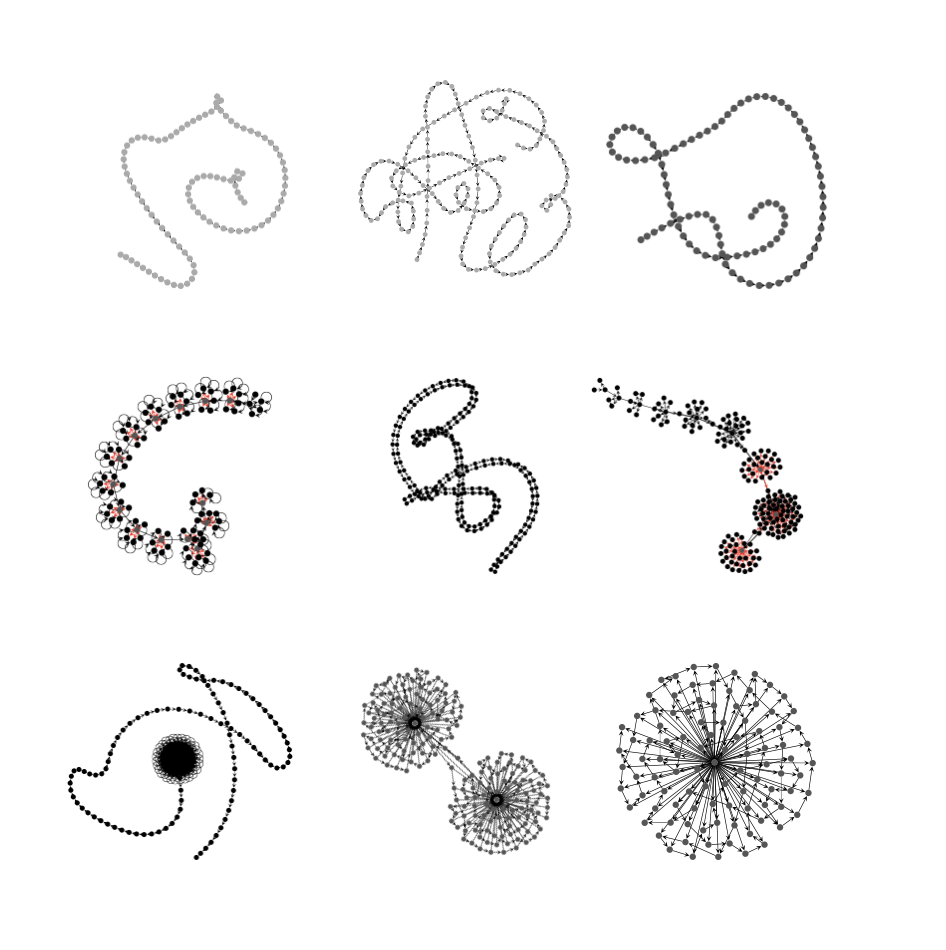
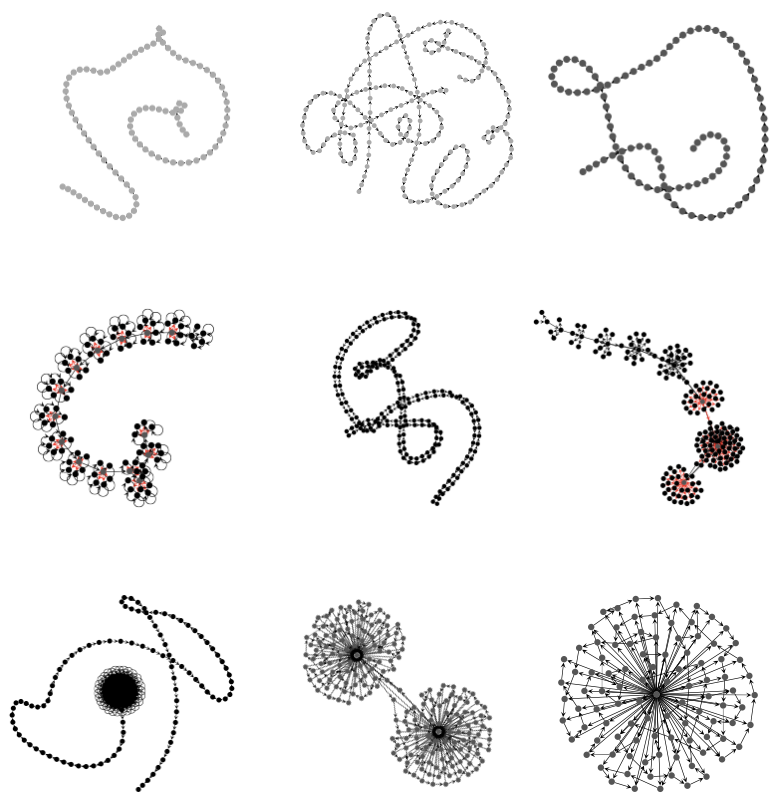
deeprvat+dgca projects

diff --git a/_projects/3_project.md b/_projects/3_project.md
@@ -8,74 +8,121 @@ redirect:
 category: work
 ---
 
-Every project has a beautiful feature showcase page.
-It's easy to include images in a flexible 3-column grid format.
-Make your photos 1/3, 2/3, or full width.
+### DeepRVAT
 
-To give your project a background in the portfolio page, just add the img tag to the front matter like so:
-
-    ---
-    layout: page
-    title: project
-    description: a project with a background image
-    img: /assets/img/12.jpg
-    ---
+Integration of variant annotations using deep set networks boosts rare variant association testing. 
 
 <div class="row">
     <div class="col-sm mt-3 mt-md-0">
-        {% include figure.liquid loading="eager" path="assets/img/1.jpg" title="example image" class="img-fluid rounded z-depth-1" %}
-    </div>
-    <div class="col-sm mt-3 mt-md-0">
-        {% include figure.liquid loading="eager" path="assets/img/3.jpg" title="example image" class="img-fluid rounded z-depth-1" %}
-    </div>
-    <div class="col-sm mt-3 mt-md-0">
-        {% include figure.liquid loading="eager" path="assets/img/5.jpg" title="example image" class="img-fluid rounded z-depth-1" %}
+        <div style="max-width: 600px; margin: 0 auto;">
+            {% include figure.liquid loading="eager" path="assets/img/project_content/deeprvat_motivation.png" title="echo state network" class="img-fluid rounded z-depth-1" %}
+        </div>
     </div>
 </div>
-<div class="caption">
-    Caption photos easily. On the left, a road goes through a tunnel. Middle, leaves artistically fall in a hipster photoshoot. Right, in another hipster photoshoot, a lumberjack grasps a handful of pine needles.
+
+The pre-trained DeepRVAT model can be used to compute gene impairment scores for new genes and samples.
+
+My work consisted on revisiting DeepRVAT by focusing on 4 dimensions:
+
+### Robustness and Performance
+
+Max Permutation Invariant function (PIF) can’t model interactions or compound effects. One variant might suppress or mask the effect of another. Two moderate-impact variants together might have a stronger effect than either alone.
+
+<div class="row g-0">
+    <div class="col-sm mt-3 mt-md-0">
+        <div style="max-width: 200px; margin: 0 auto;">
+            {% include figure.liquid loading="eager" path="assets/img/project_content/pif.png" title="PIF" class="img-fluid rounded z-depth-1" %}
+        </div>
+    </div>
+    <div class="col-sm mt-3 mt-md-0">
+        <div style="max-width: 400px; margin: 0 auto;">
+            {% include figure.liquid loading="eager" path="assets/img/project_content/sumvsmax.png" title="sum vs max" class="img-fluid rounded z-depth-1" %}
+        </div>
+    </div>
 </div>
+
+Removing final sigmoid layer solves problems with burden distribution and yields scores that align with `biological expectations`.
+
 <div class="row">
     <div class="col-sm mt-3 mt-md-0">
-        {% include figure.liquid loading="eager" path="assets/img/5.jpg" title="example image" class="img-fluid rounded z-depth-1" %}
+        <div style="max-width: 700px; margin: 0 auto;">
+            {% include figure.liquid loading="eager" path="assets/img/project_content/additivity.png" title="additivity" class="img-fluid rounded z-depth-1" %}
+        </div>
     </div>
 </div>
-<div class="caption">
-    This image can also have a caption. It's like magic.
-</div>
 
-You can also put regular text between your rows of images.
-Say you wanted to write a little bit about your project before you posted the rest of the images.
-You describe how you toiled, sweated, _bled_ for your project, and then... you reveal its glory in the next row of images.
+A default value does not indicate absence of information; NAs should be handled separately. This was achieved by the introduction of a dummy variable.
 
-<div class="row justify-content-sm-center">
-    <div class="col-sm-8 mt-3 mt-md-0">
-        {% include figure.liquid path="assets/img/6.jpg" title="example image" class="img-fluid rounded z-depth-1" %}
-    </div>
-    <div class="col-sm-4 mt-3 mt-md-0">
-        {% include figure.liquid path="assets/img/11.jpg" title="example image" class="img-fluid rounded z-depth-1" %}
+<div class="row">
+    <div class="col-sm mt-3 mt-md-0">
+        <div style="max-width: 400px; margin: 0 auto;">
+            {% include figure.liquid loading="eager" path="assets/img/project_content/na_handling.png" title="na_handling" class="img-fluid rounded z-depth-1" %}
+        </div>
     </div>
 </div>
-<div class="caption">
-    You can also have artistically styled 2/3 + 1/3 images, like these.
+
+Insertions/deletions can disrupt splicing and regulatory regions (framshift and in-frame risks), but scores are often unavailable. In non-coding regions this is harder to predict, but the impact is still there.
+
+<div class="row">
+    <div class="col-sm mt-3 mt-md-0">
+        <div style="max-width: 700px; margin: 0 auto;">
+            {% include figure.liquid loading="eager" path="assets/img/project_content/indels.png" title="indels" class="img-fluid rounded z-depth-1" %}
+        </div>
+    </div>
 </div>
 
-The code is simple.
-Just wrap your images with `<div class="col-sm">` and place them inside `<div class="row">` (read more about the <a href="https://getbootstrap.com/docs/4.4/layout/grid/">Bootstrap Grid</a> system).
-To make images responsive, add `img-fluid` class to each; for rounded corners and shadows use `rounded` and `z-depth-1` classes.
-Here's the code for the last row of images above:
+Some indels may be imputed by approximating them as single-nucleotide variants at the affected loci.
 
-{% raw %}
-
-```html
-<div class="row justify-content-sm-center">
-  <div class="col-sm-8 mt-3 mt-md-0">
-    {% include figure.liquid path="assets/img/6.jpg" title="example image" class="img-fluid rounded z-depth-1" %}
-  </div>
-  <div class="col-sm-4 mt-3 mt-md-0">
-    {% include figure.liquid path="assets/img/11.jpg" title="example image" class="img-fluid rounded z-depth-1" %}
-  </div>
+<div class="row">
+    <div class="col-sm mt-3 mt-md-0">
+        <div style="max-width: 400px; margin: 0 auto;">
+            {% include figure.liquid loading="eager" path="assets/img/project_content/indel_imputation.png" title="indel_imputation" class="img-fluid rounded z-depth-1" %}
+        </div>
+    </div>
 </div>
-```
 
-{% endraw %}
+### Interpretability
+
+Genes with LoF variants can be used as markers for burden rescaling.
+
+We compute rescaling factors:
+
+`X0`: median of gene burdens of individuals with no variants
+
+`X1`: median of gene burdens of individuals with exactly one loftee_hc=1 variant
+
+Rescaling factors (for each model):
+
+<div class="row">
+    <div class="col-sm mt-3 mt-md-0">
+        <div style="max-width: 100px; margin: 0 auto;">
+            {% include figure.liquid loading="eager" path="assets/img/project_content/rescaling_factors.png" title="factors" class="img-fluid rounded z-depth-1" %}
+        </div>
+    </div>
+</div>
+
+Rescaling burdens increases `interpretability` and improves `downstream usage`. From a technical point of view, unscaled burdens are hard to compare with other tools, as there is no point of reference.
+
+### Usability
+
+In most samples, DeepRVAT sees a single variant and not a set. This means that the DeepRVAT variant score is actually the gene impairment score.
+
+<div class="row">
+    <div class="col-sm mt-3 mt-md-0">
+        <div style="max-width: 600px; margin: 0 auto;">
+            {% include figure.liquid loading="eager" path="assets/img/project_content/deeprvat_vep.png" title="VEP approach" class="img-fluid rounded z-depth-1" %}
+        </div>
+    </div>
+</div>
+
+For those few cases where there are actually >1 variant, adding the variant level scores instead of running them through the end-to-end model showed quite good performance
+
+<div class="row">
+    <div class="col-sm mt-3 mt-md-0">
+        <div style="max-width: 400px; margin: 0 auto;">
+            {% include figure.liquid loading="eager" path="assets/img/project_content/vep_performance.png" title="VEP performance" class="img-fluid rounded z-depth-1" %}
+        </div>
+    </div>
+</div>
+
+The advantage that we can pre-compute these variant level scores, which highlights the possibility for an ensemble method for variant prediction complementary to CADD.

diff --git a/_projects/1_project.md b/_projects/1_project.md
@@ -5,77 +5,82 @@ description: Developmental Graph Cellular Automata can grow reservoir computers.
 img: assets/img/project_preview/dgca.png
 importance: 1
 category: work
-related_publications: true
+related_publications: false
 ---
 
-Every project has a beautiful feature showcase page.
-It's easy to include images in a flexible 3-column grid format.
-Make your photos 1/3, 2/3, or full width.
+### What distinguishes living matter from non-living matter?
 
-To give your project a background in the portfolio page, just add the img tag to the front matter like so:
-
-    ---
-    layout: page
-    title: project
-    description: a project with a background image
-    img: /assets/img/12.jpg
-    ---
+Until the late 19th century, scientists believed that life possessed a special vital force. A property not just of living beings, but of their chemical constituents themselves.
 
 <div class="row">
     <div class="col-sm mt-3 mt-md-0">
-        {% include figure.liquid loading="eager" path="assets/img/1.jpg" title="example image" class="img-fluid rounded z-depth-1" %}
-    </div>
-    <div class="col-sm mt-3 mt-md-0">
-        {% include figure.liquid loading="eager" path="assets/img/3.jpg" title="example image" class="img-fluid rounded z-depth-1" %}
-    </div>
-    <div class="col-sm mt-3 mt-md-0">
-        {% include figure.liquid loading="eager" path="assets/img/5.jpg" title="example image" class="img-fluid rounded z-depth-1" %}
+        <div style="max-width: 400px; margin: 0 auto;">
+            {% include figure.liquid loading="eager" path="assets/img/project_content/vital_force.png" title="vital force" class="img-fluid rounded z-depth-1" %}
+        </div>
     </div>
 </div>
-<div class="caption">
-    Caption photos easily. On the left, a road goes through a tunnel. Middle, leaves artistically fall in a hipster photoshoot. Right, in another hipster photoshoot, a lumberjack grasps a handful of pine needles.
-</div>
+
+By the mid-20th century, the discovery of DNA and RNA structures and the successful synthesis of polynucleotides revealed that life’s chemistry follows the same physical laws as everything else. The atoms that make up our bodies are the same as those found all around the universe.
+
 <div class="row">
     <div class="col-sm mt-3 mt-md-0">
-        {% include figure.liquid loading="eager" path="assets/img/5.jpg" title="example image" class="img-fluid rounded z-depth-1" %}
+        <div style="max-width: 400px; margin: 0 auto;">
+            {% include figure.liquid loading="eager" path="assets/img/project_content/carbon_space.png" title="carbon in space" class="img-fluid rounded z-depth-1" %}
+        </div>
     </div>
 </div>
-<div class="caption">
-    This image can also have a caption. It's like magic.
-</div>
 
-You can also put regular text between your rows of images, even citations {% cite einstein1950meaning %}.
-Say you wanted to write a bit about your project before you posted the rest of the images.
-You describe how you toiled, sweated, _bled_ for your project, and then... you reveal its glory in the next row of images.
+Yet, there remains something unique about living systems beyond chemistry alone.
 
-<div class="row justify-content-sm-center">
-    <div class="col-sm-8 mt-3 mt-md-0">
-        {% include figure.liquid path="assets/img/6.jpg" title="example image" class="img-fluid rounded z-depth-1" %}
+In recent years, researchers have turned to `function` as the defining feature of life. 
+
+### Morphogenesis
+
+Morphogenesis orchestrates how cells collectively form complex structures like eyes, limbs, and hearts.
+
+<div class="row">
+    <div class="col-sm mt-3 mt-md-0">
+        <div style="max-width: 400px; margin: 0 auto;">
+            {% include figure.liquid loading="eager" path="assets/img/project_content/retina_structure.png" title="human eye" class="img-fluid rounded z-depth-1" %}
+        </div>
     </div>
-    <div class="col-sm-4 mt-3 mt-md-0">
-        {% include figure.liquid path="assets/img/11.jpg" title="example image" class="img-fluid rounded z-depth-1" %}
+</div>
+
+In 2020, Mordvintsev et al. introduced Neural Cellular Automata (NCA) as a model of morphogenesis. By using neural networks as transition rules, NCAs can grow predefined two-dimensional shapes from a single-cell seed.
+
+<div class="row">
+    <div class="col-sm mt-3 mt-md-0">
+        <div style="max-width: 400px; margin: 0 auto;">
+            {% include figure.liquid loading="eager" path="assets/gif/gecko.gif" title="gecko" class="img-fluid rounded z-depth-1" %}
+        </div>
     </div>
 </div>
-<div class="caption">
-    You can also have artistically styled 2/3 + 1/3 images, like these.
+
+However, biological morphogenesis is not just about form, it is about function. In nature, structures emerge to do something. What better function to explore than computation itself?
+
+Developmental Graph Cellular Automata (DGCA) (Waldegrave et al., 2023) build upon NCAs by allowing the growth of directed graphs guided by fitness functions. 
+
+<div class="row">
+    <div class="col-sm mt-3 mt-md-0">
+        <div style="max-width: 700px; margin: 0 auto;">
+            {% include figure.liquid loading="eager" path="assets/img/project_content/dgca_pipeline.png" title="DGCA update pipeline" class="img-fluid rounded z-depth-1" %}
+        </div>
+    </div>
 </div>
 
-The code is simple.
-Just wrap your images with `<div class="col-sm">` and place them inside `<div class="row">` (read more about the <a href="https://getbootstrap.com/docs/4.4/layout/grid/">Bootstrap Grid</a> system).
-To make images responsive, add `img-fluid` class to each; for rounded corners and shadows use `rounded` and `z-depth-1` classes.
-Here's the code for the last row of images above:
+Since recurrent neural networks (RNNs) are directed graphs, and reservoirs (at their simplest form) are RNNs, DGCAs bring us closer to systems that compute in ways reminiscent of nature.
 
-{% raw %}
-
-```html
-<div class="row justify-content-sm-center">
-  <div class="col-sm-8 mt-3 mt-md-0">
-    {% include figure.liquid path="assets/img/6.jpg" title="example image" class="img-fluid rounded z-depth-1" %}
-  </div>
-  <div class="col-sm-4 mt-3 mt-md-0">
-    {% include figure.liquid path="assets/img/11.jpg" title="example image" class="img-fluid rounded z-depth-1" %}
-  </div>
+<div class="row">
+    <div class="col-sm mt-3 mt-md-0">
+        <div style="max-width: 400px; margin: 0 auto;">
+            {% include figure.liquid loading="eager" path="assets/img/project_content/esn.png" title="echo state network" class="img-fluid rounded z-depth-1" %}
+        </div>
+    </div>
 </div>
-```
 
-{% endraw %}
+This raises a compelling question:
+`Why not grow our own reservoirs?`
+
+Such an approach represents a crucial step toward modeling functional and adaptive morphogenesis.
+
+If this intrigues you, read the [paper](https://arxiv.org/abs/2508.08091). You’ll find that many of the resulting reservoirs exhibit sparse “life-like” structures rather than small-world reservoirs. This suggests that form may play a deeper role in computation within dynamical systems than previously imagined.

diff --git a/_projects/5_project.md b/_projects/5_project.md
@@ -1,80 +1,8 @@
 ---
 layout: page
 title: Mind Weaver
-description: A puzzle dungeon-crawling adventure.
+description: A puzzle-solving, dungeon-crawling 2D adventure.
 img: assets/img/project_preview/game_dev.png
 importance: 3
 category: fun
 ---
-
-Every project has a beautiful feature showcase page.
-It's easy to include images in a flexible 3-column grid format.
-Make your photos 1/3, 2/3, or full width.
-
-To give your project a background in the portfolio page, just add the img tag to the front matter like so:
-
-    ---
-    layout: page
-    title: project
-    description: a project with a background image
-    img: /assets/img/12.jpg
-    ---
-
-<div class="row">
-    <div class="col-sm mt-3 mt-md-0">
-        {% include figure.liquid loading="eager" path="assets/img/1.jpg" title="example image" class="img-fluid rounded z-depth-1" %}
-    </div>
-    <div class="col-sm mt-3 mt-md-0">
-        {% include figure.liquid loading="eager" path="assets/img/3.jpg" title="example image" class="img-fluid rounded z-depth-1" %}
-    </div>
-    <div class="col-sm mt-3 mt-md-0">
-        {% include figure.liquid loading="eager" path="assets/img/5.jpg" title="example image" class="img-fluid rounded z-depth-1" %}
-    </div>
-</div>
-<div class="caption">
-    Caption photos easily. On the left, a road goes through a tunnel. Middle, leaves artistically fall in a hipster photoshoot. Right, in another hipster photoshoot, a lumberjack grasps a handful of pine needles.
-</div>
-<div class="row">
-    <div class="col-sm mt-3 mt-md-0">
-        {% include figure.liquid loading="eager" path="assets/img/5.jpg" title="example image" class="img-fluid rounded z-depth-1" %}
-    </div>
-</div>
-<div class="caption">
-    This image can also have a caption. It's like magic.
-</div>
-
-You can also put regular text between your rows of images.
-Say you wanted to write a little bit about your project before you posted the rest of the images.
-You describe how you toiled, sweated, _bled_ for your project, and then... you reveal its glory in the next row of images.
-
-<div class="row justify-content-sm-center">
-    <div class="col-sm-8 mt-3 mt-md-0">
-        {% include figure.liquid path="assets/img/6.jpg" title="example image" class="img-fluid rounded z-depth-1" %}
-    </div>
-    <div class="col-sm-4 mt-3 mt-md-0">
-        {% include figure.liquid path="assets/img/11.jpg" title="example image" class="img-fluid rounded z-depth-1" %}
-    </div>
-</div>
-<div class="caption">
-    You can also have artistically styled 2/3 + 1/3 images, like these.
-</div>
-
-The code is simple.
-Just wrap your images with `<div class="col-sm">` and place them inside `<div class="row">` (read more about the <a href="https://getbootstrap.com/docs/4.4/layout/grid/">Bootstrap Grid</a> system).
-To make images responsive, add `img-fluid` class to each; for rounded corners and shadows use `rounded` and `z-depth-1` classes.
-Here's the code for the last row of images above:
-
-{% raw %}
-
-```html
-<div class="row justify-content-sm-center">
-  <div class="col-sm-8 mt-3 mt-md-0">
-    {% include figure.liquid path="assets/img/6.jpg" title="example image" class="img-fluid rounded z-depth-1" %}
-  </div>
-  <div class="col-sm-4 mt-3 mt-md-0">
-    {% include figure.liquid path="assets/img/11.jpg" title="example image" class="img-fluid rounded z-depth-1" %}
-  </div>
-</div>
-```
-
-{% endraw %}

diff --git a/_projects/2_project.md b/_projects/2_project.md
@@ -1,7 +1,7 @@
 ---
 layout: page
 title: gladGAN
-description: Generative Adversarial Networks for graph level anomaly detection.
+description: Generative Adversarial Networks can be used to detect graph level anomalies.
 img: assets/img/project_preview/gladgan.png
 importance: 2
 category: work
